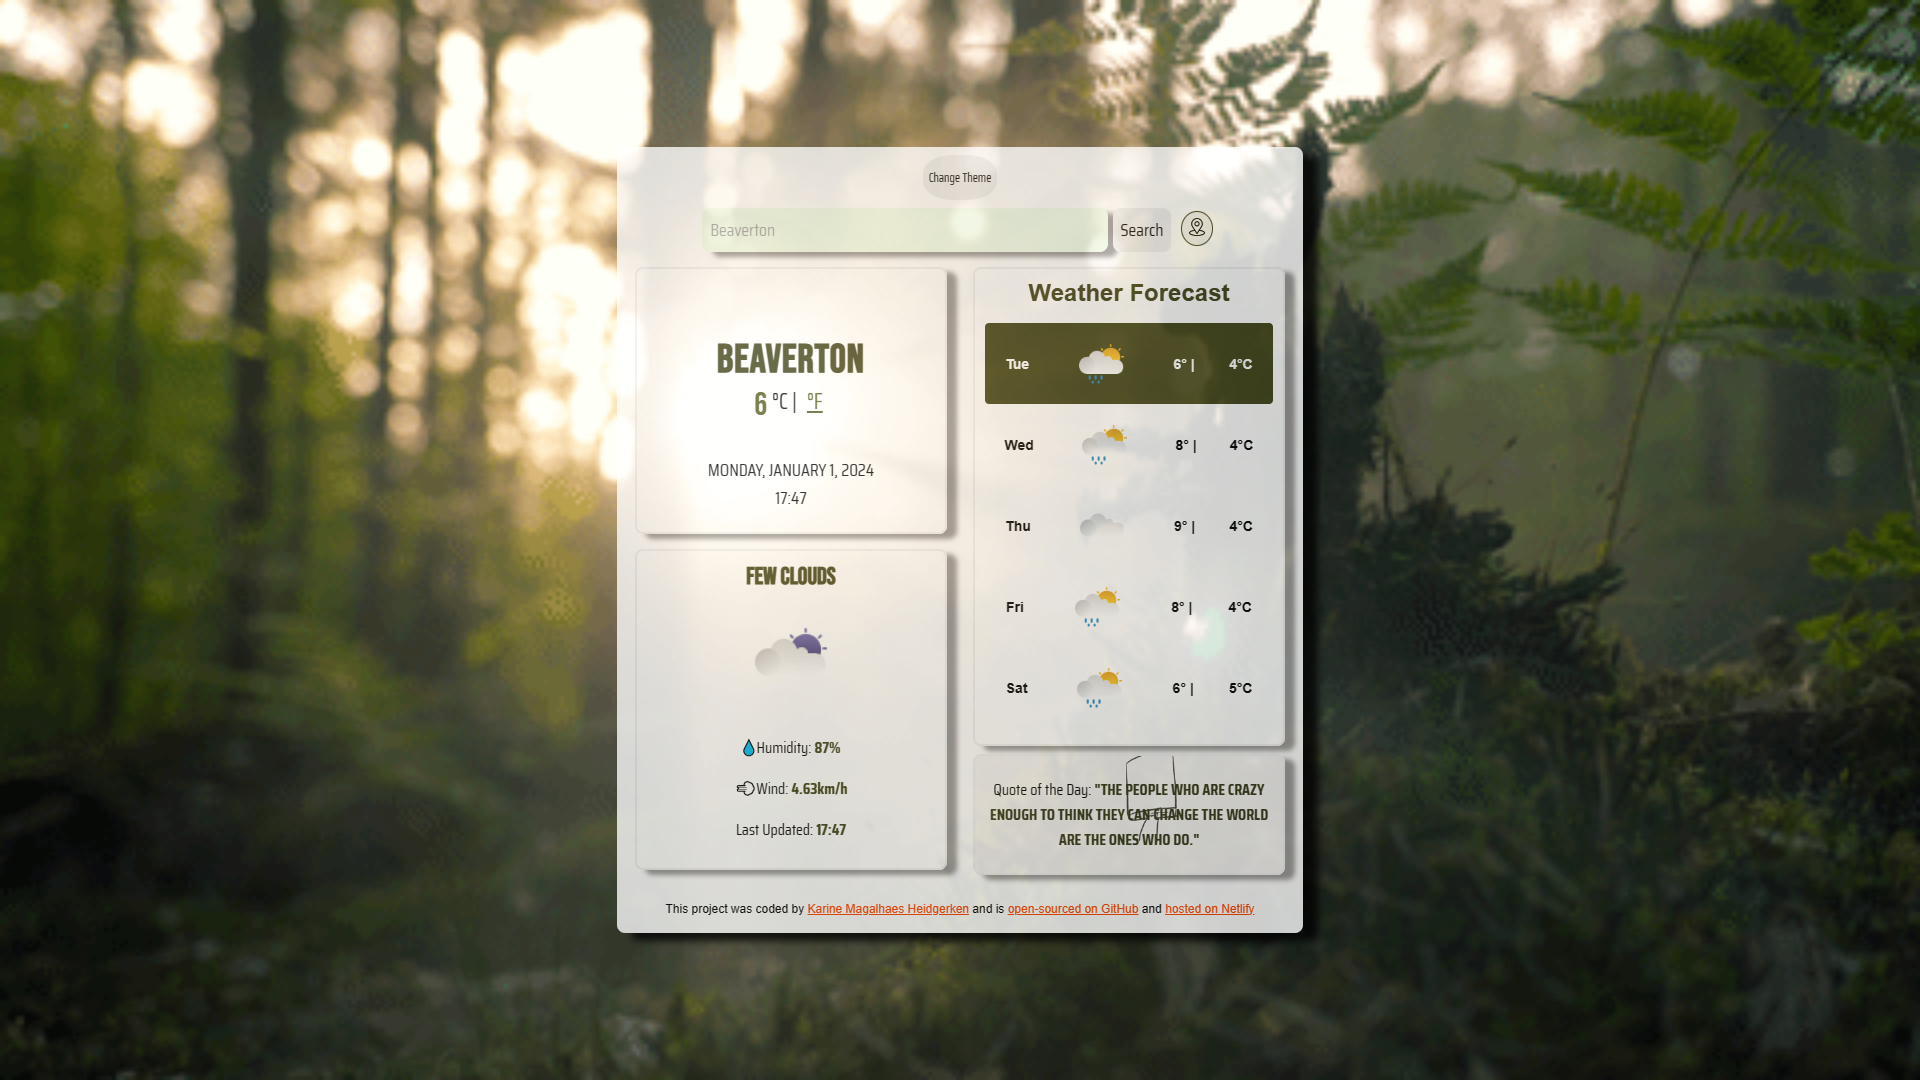
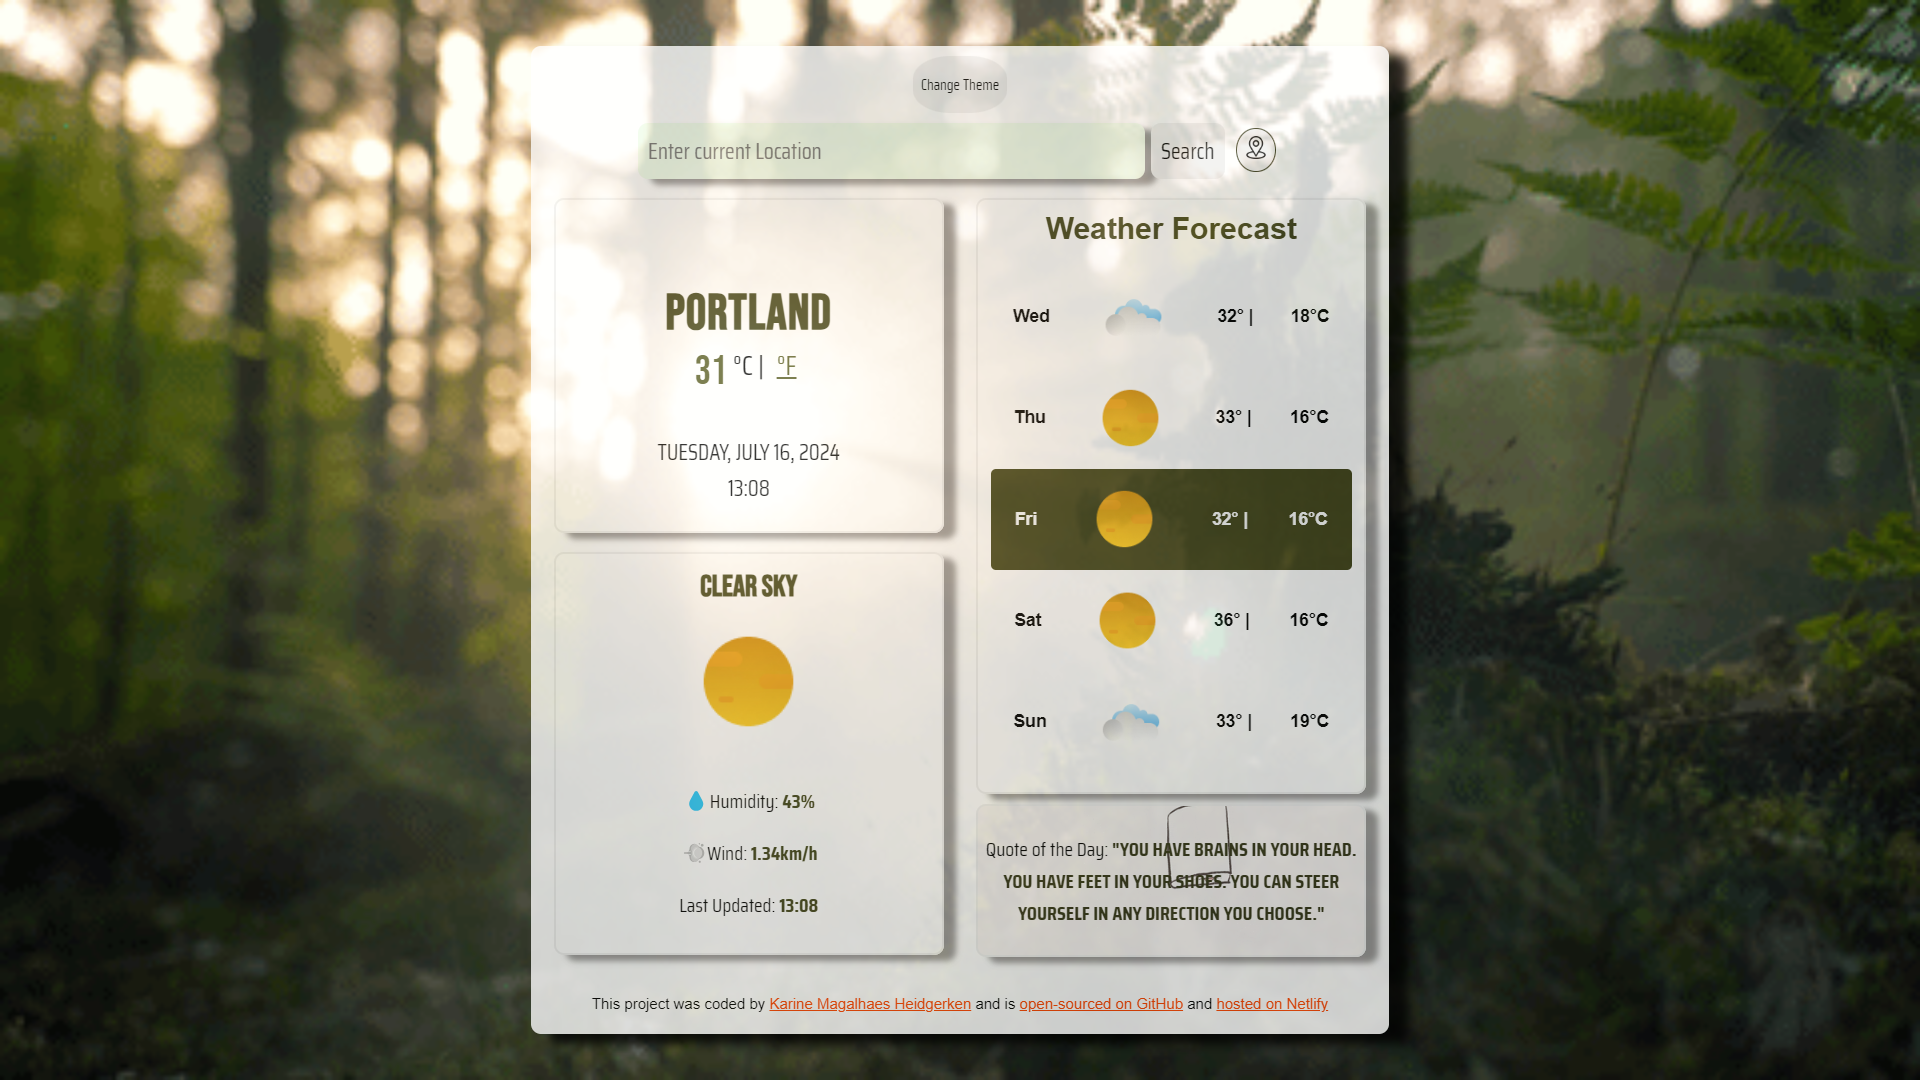
Updated portfolio

Changed region(s): [[0.25, 0.0306, 0.75, 0.9778], [0.3438, 0.275, 0.4688, 0.3667], [0.3438, 0.3972, 0.4375, 0.4583]]

diff --git a/index.html b/index.html
@@ -177,72 +177,72 @@
         </h2>
         <div class="col-md-6">
           <img
-            src="/media/weather.png"
+            src="/media/weather-react.png"
             alt="Weather app image"
             class="img-fluid d-none d-sm-block image-move"
           />
         </div>
         <div class="col-md-6">
-          <h3 class="p-1 mb-3">Weather App</h3>
+          <h3 class="p-1 mb-3">React Weather App</h3>
           <div class="tools-used mb-5">
-            <button type="button" class="btn btn-outline-dark">HTML</button>
+            <button type="button" class="btn btn-outline-dark">React</button>
             <button type="button" class="btn btn-outline-dark">
-              JavaScript
+              Bootstrap
             </button>
             <button type="button" class="btn btn-outline-dark">API</button>
           </div>
           <p>
-            Explore comprehensive real-time weather updates for more than
-            200,000 cities worldwide. Switch effortlessly between Celsius and
-            Fahrenheit units to check the current temperature. Customize your
-            experience with a choice of over 10 background themes, accompanied
-            by randomly generated quotes. This platform is powered by the
-            OpenWeather API, ensuring accurate and up-to-date weather
-            information.
+            Forget about the grays of traditional weather apps—explore a fun and
+            cute pastel color design with this weather platform! Discover
+            comprehensive real-time weather updates for more than 200,000 cities
+            worldwide. Switch effortlessly between Celsius and Fahrenheit units
+            to check the current temperature, and dive into detailed weekly and
+            hourly forecast data. Stay informed with up-to-date local time and
+            date, and enjoy a dynamic experience with animated weather icons.
           </p>
           <a
-            href="https://karine-weather-app.netlify.app/"
+            href="https://react-weather-karine-dev.netlify.app/"
             class="btn btn-dark p-1 mb-5"
             target="_blank"
             >Check Demo</a
           >
           <a
-            href="https://github.com/Kamagalhaes92/My-first-weather-app/tree/main"
+            href="https://github.com/Kamagalhaes92/react-app/tree/main"
             class="btn btn-dark p-1 mb-5"
             target="_blank"
             >Source Code</a
           >
         </div>
+
         <div class="row mb-5">
           <div class="col-md-6">
-            <h3 class="p-1 mb-3">World Clock App</h3>
+            <h3 class="p-1 mb-3">WordWave Dictionary App</h3>
             <div class="tools-used mb-5">
-              <button type="button" class="btn btn-outline-dark">HTML</button>
-              <button type="button" class="btn btn-outline-dark">
-                JavaScript
-              </button>
-              <button type="button" class="btn btn-outline-dark">Canva</button>
+              <button type="button" class="btn btn-outline-dark">React</button>
+              <button type="button" class="btn btn-outline-dark">API</button>
             </div>
 
             <p>
-              Experience a dynamic world clock website featuring a responsive
-              digital and analog clock that seamlessly displays the current time
-              of your location. The user-friendly dashboard showcases time in
-              four distinct locations, each accompanied by stunning background
-              visuals upon hovering. Users can easily select from a curated list
-              of nine cities using a dropdown menu, revealing additional
-              information about the chosen city. As a final touch, enjoy an
-              engaging animation depicting a moving train, symbolizing the
-              relentless passage of time.
+              Experience a comprehensive modern and fun dictionary app that
+              enhances your vocabulary with ease. The intuitive search
+              functionality provides instant word definitions, examples, and
+              images, making learning a seamless experience. Users earn coins
+              with each search, adding a gamified element to your vocabulary
+              expansion journey. Discover a new word every day with the Word of
+              the Day feature, ensuring constant growth.Enjoy optional retro
+              synth tunes as background music, and switch between light and dark
+              themes for a personalized interface. Visual learning is supported
+              through integrated images, all within a responsive design that
+              works flawlessly across all devices.
             </p>
             <a
-              href="https://aroundtheworld-worldclock.netlify.app/"
+              href="https://vaporwave-dictionary.netlify.app/"
               class="btn btn-dark p-1 mb-5"
               target="_blank"
               >Check Demo</a
             >
             <a
-              href="https://github.com/Kamagalhaes92/world-clock/tree/main"
+              href="https://github.com/Kamagalhaes92/dictionary-project"
               class="btn btn-dark p-1 mb-5"
               target="_blank"
               >Source Code</a
@@ -250,7 +250,7 @@
           </div>
           <div class="col-md-6">
             <img
-              src="/media/world-clock-app.png"
+              src="/media/dictionary.png"
               alt="world-clock-app"
               class="img-fluid d-none d-sm-block image-move2"
             />
@@ -259,32 +259,50 @@
         <div class="row mb-5">
           <div class="col-md-6">
             <img
-              src="/media/vegan-app.png"
+              src="/media/ai-recipe.gif"
               alt="vegan webpage"
               class="img-fluid d-none d-sm-block image-move3"
             />
           </div>
           <div class="col-md-6">
-            <h3 class="p-1 mb-3">Landing Page</h3>
+            <h3 class="p-1 mb-3">SmartPalate AI Recipe Generator</h3>
             <div class="tools-used mb-5">
-              <button type="button" class="btn btn-outline-dark">HTML</button>
               <button type="button" class="btn btn-outline-dark">
                 JavaScript
               </button>
               <button type="button" class="btn btn-outline-dark">API</button>
             </div>
             <p>
-              Discover a minimalist landing page dedicated to the vegan diet,
-              featuring a collection of delectable recipes. The website offers
-              both light and dark modes, incorporates a responsive grid, and
-              enhances user interaction with text overlays that seamlessly
-              appear on hover.
+              Experience the future of meal planning with an innovative app that
+              combines two AI-powered modes to simplify your culinary
+              adventures. The Recipe Generator lets you select up to 10
+              ingredients you have at home, crafting personalized recipes
+              complete with a macronutrient breakdown. For budget-conscious
+              users, the Grocery on a Budget mode allows you to choose your diet
+              type, set a weekly budget, and specify your meal needs. The AI
+              then generates a shopping list with prices and provides meal ideas
+              using those items. The app includes a dark mode for a comfortable
+              viewing experience, and upcoming multilingual support will soon
+              make it accessible in multiple languages. Users can conveniently
+              copy and download their favorite recipes, ensuring easy access to
+              meal ideas anytime. With a fully responsive design, the app
+              features engaging typewriter effects and simple animations,
+              enhancing user experience across all devices. Leveraging APIs, the
+              app delivers accurate and up-to-date information to help you
+              manage your meals efficiently and effortlessly.
             </p>
             <a
-              href="https://www.shecodes.io/cohorts/shecodes-basics-add-on-a77819c2-7e06-4390-8118-ebc9dcd5acea/projects/2026506?_gl=1*1vsjiel*_gcl_au*MTc3NTg2NDEwMi4xNzA4MzY2MDcy"
+              href="https://app.netlify.com/sites/ai-recipe-generator-app/overview"
               class="btn btn-dark p-1 mb-5"
               target="_blank"
               >Check Demo</a
+            >
+
+            <a
+              href="https://github.com/Kamagalhaes92/ai-recipe-generator"
+              class="btn btn-dark p-1 mb-5"
+              target="_blank"
+              >Source Code</a
             >
           </div>
         </div>

diff --git a/projects.html b/projects.html
@@ -74,6 +74,56 @@
         <div class="row">
           <div class="col-md-6 mb-4">
             <img
+              src="/media/weather-app-full.png"
+              class="img-fluid mb-3 rounded"
+              alt="weather app"
+            />
+            <a
+              href="https://react-weather-karine-dev.netlify.app/"
+              target="_blank"
+              ><h3 class="text-center m-0">React Weather App</h3></a
+            >
+            <p class="text-center">Built using APIs and React</p>
+          </div>
+          <div class="col-md-6 mb-4">
+            <img
+              src="/media/wordwave-dictionary.png"
+              class="img-fluid mb-3 rounded"
+              alt="dicitonary app"
+            />
+            <a href="https://vaporwave-dictionary.netlify.app/" target="_blank"
+              ><h3 class="text-center m-0">WordWave Dictionary App</h3></a
+            >
+            <p class="text-center">Built using APIs and React</p>
+          </div>
+          <div class="col-md-6 mb-4">
+            <img
+              src="/media/smartpalate-ai.png"
+              class="img-fluid mb-3 rounded"
+              alt="Ai Recipe Generator"
+            />
+            <a
+              href="https://ai-recipe-generator-app.netlify.app/"
+              target="_blank"
+              ><h3 class="text-center m-0">
+                SmartPalate Ai Recipe Generator App
+              </h3></a
+            >
+            <p class="text-center">Built using API, JavaScript and Bootstrap</p>
+          </div>
+          <div class="col-md-6 mb-4">
+            <img
+              src="/media/travel-to-london.png"
+              class="img-fluid mb-3 rounded"
+              alt="travel to london website"
+            />
+            <a href="https://traveltolondon.netlify.app/" target="_blank"
+              ><h3 class="text-center m-0">Travel to London Website</h3></a
+            >
+            <p class="text-center">Built using HTML,CSS, JavaScript</p>
+          </div>
+          <div class="col-md-6 mb-4">
+            <img
               src="/media/weather-app.png"
               class="img-fluid mb-3 rounded"
               alt="weather app"
